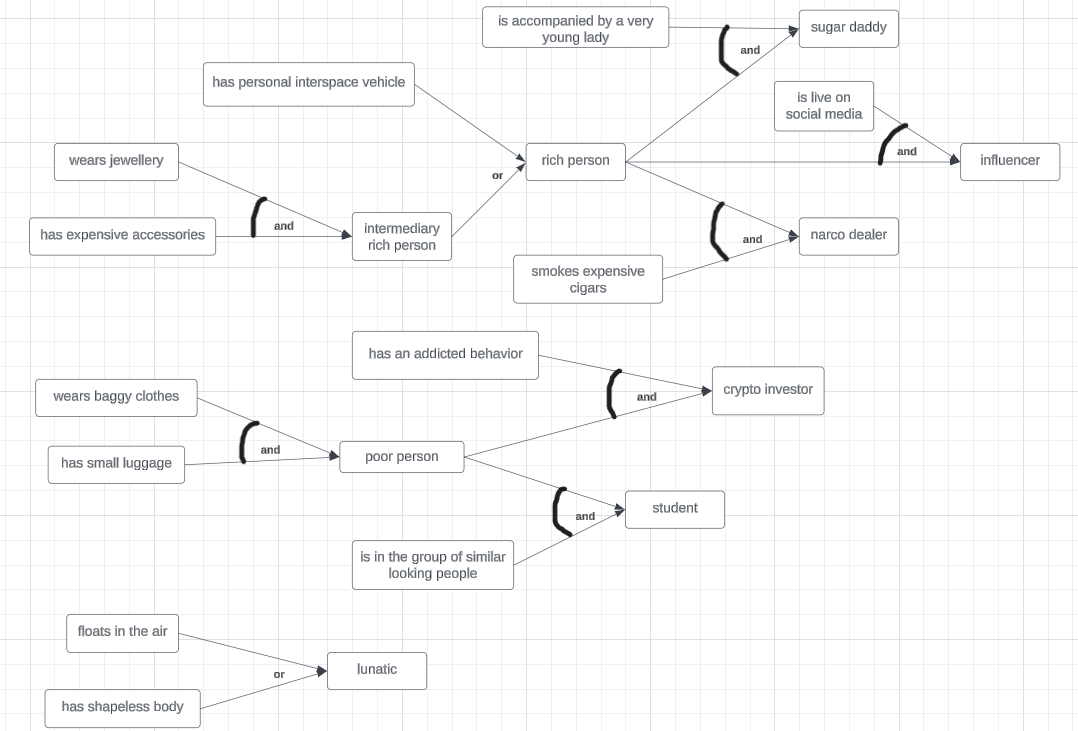
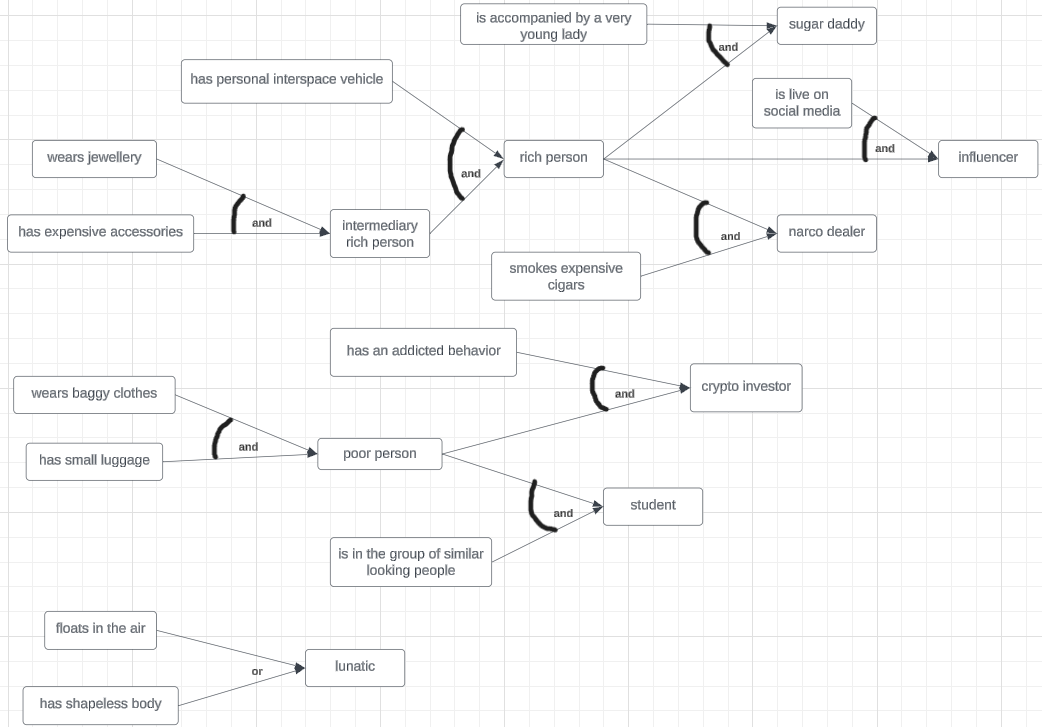
Implement yes/no questions to traverse goal tree.

diff --git a/Lab1_ExpertSystem/expert_system.py b/Lab1_ExpertSystem/expert_system.py
@@ -55,12 +55,17 @@ class ExpertSystem:
             existing_fact = None
             current_rule = self.get_a_new_unchecked_rule(self.leaf_rules)
 
+            if current_rule is None:
+                print("\nThe person cannot be identified by the system")
+                return
+
             while current_rule is not None:
                 facts = self.verify_rule_conditions_fulfillment(current_rule, existing_fact)
+
                 new_facts = forward_chain(LUNA_GUESTS_RULES, facts)
+                self.mark_rule_as_checked(current_rule)
 
                 try:
-                    self.mark_rule_as_checked(current_rule)
                     intermediary_fact = (new_facts - facts).pop()
 
                     if intermediary_fact in self.hypotheses:
@@ -74,7 +79,7 @@ class ExpertSystem:
                     if current_rule['leaf']:
                         break
                     else:
-                        current_rule = self.get_a_new_unchecked_rule(self.intermediary_rules, facts[0])
+                        current_rule = self.get_a_new_unchecked_rule(self.intermediary_rules, list(facts)[0])
 
 
     def verify_rule_conditions_fulfillment(self, rule, existing_fact):

diff --git a/Lab1_ExpertSystem/rules.py b/Lab1_ExpertSystem/rules.py
@@ -16,7 +16,7 @@ LUNA_GUESTS_RULES = (
              '(?x) has small luggage' ),
         THEN( '(?x) is a poor person' )),
     
-    IF( OR( '(?x) is a rich person supposedly', 
+    IF( AND( '(?x) is a rich person supposedly', 
             '(?x) has personal interspace vehicle'),
         THEN( '(?x) is a rich person' )),
    

diff --git a/Lab1_ExpertSystem/utils.py b/Lab1_ExpertSystem/utils.py
@@ -146,3 +146,9 @@ class QuestionGenerator:
                 f"{' '.join(words[2:])}?"
         
         return question
+    
+    def generate_multiple_choice_question(self, conditions):
+        pass
+
+    def generate_user_input_question(self, fact):
+        pass

diff --git a/Lab1_ExpertSystem/main.py b/Lab1_ExpertSystem/main.py
@@ -1,7 +1,3 @@
-# TODO: add your imports here:
-from rules import LUNA_GUESTS_RULES
-from production import forward_chain, backward_chain, AND, OR
-from utils import QuestionGenerator
 from expert_system import ExpertSystem
 
 if __name__=='__main__':
